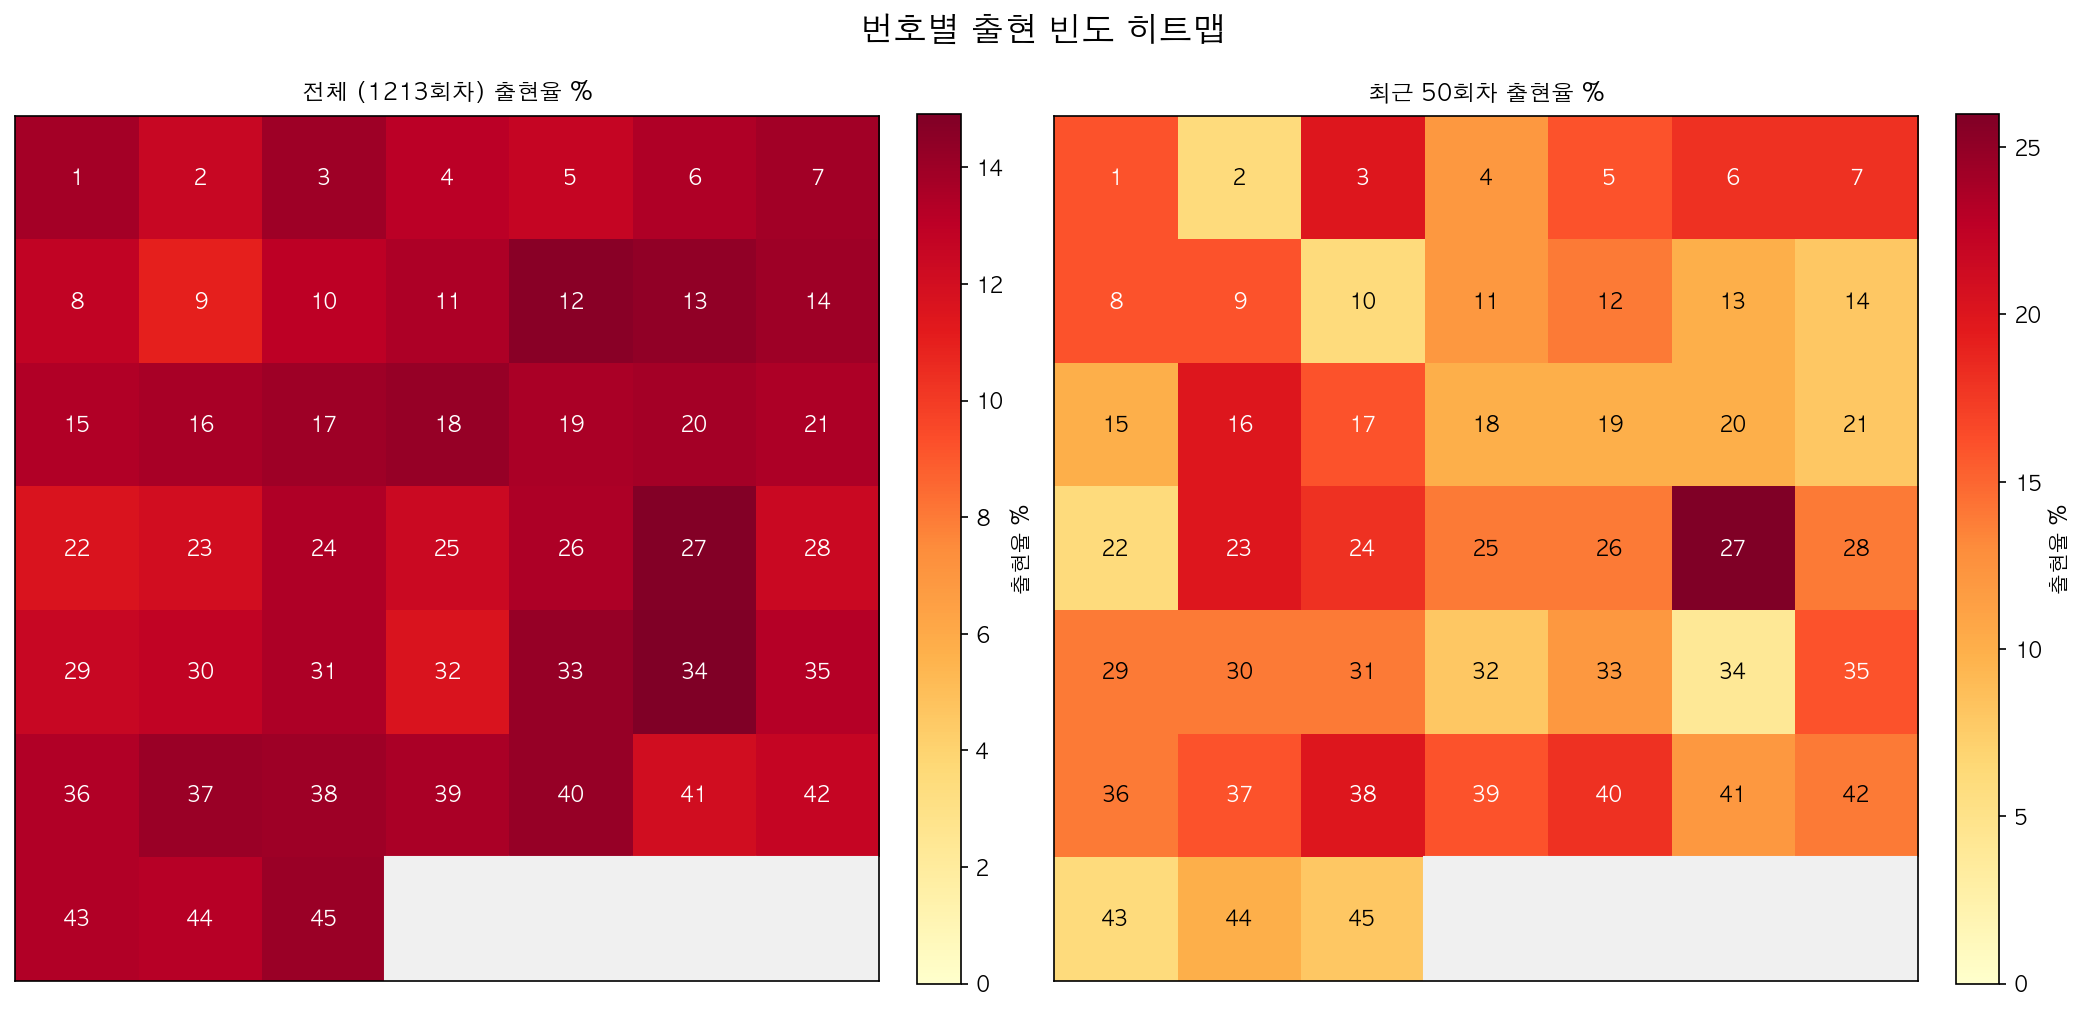
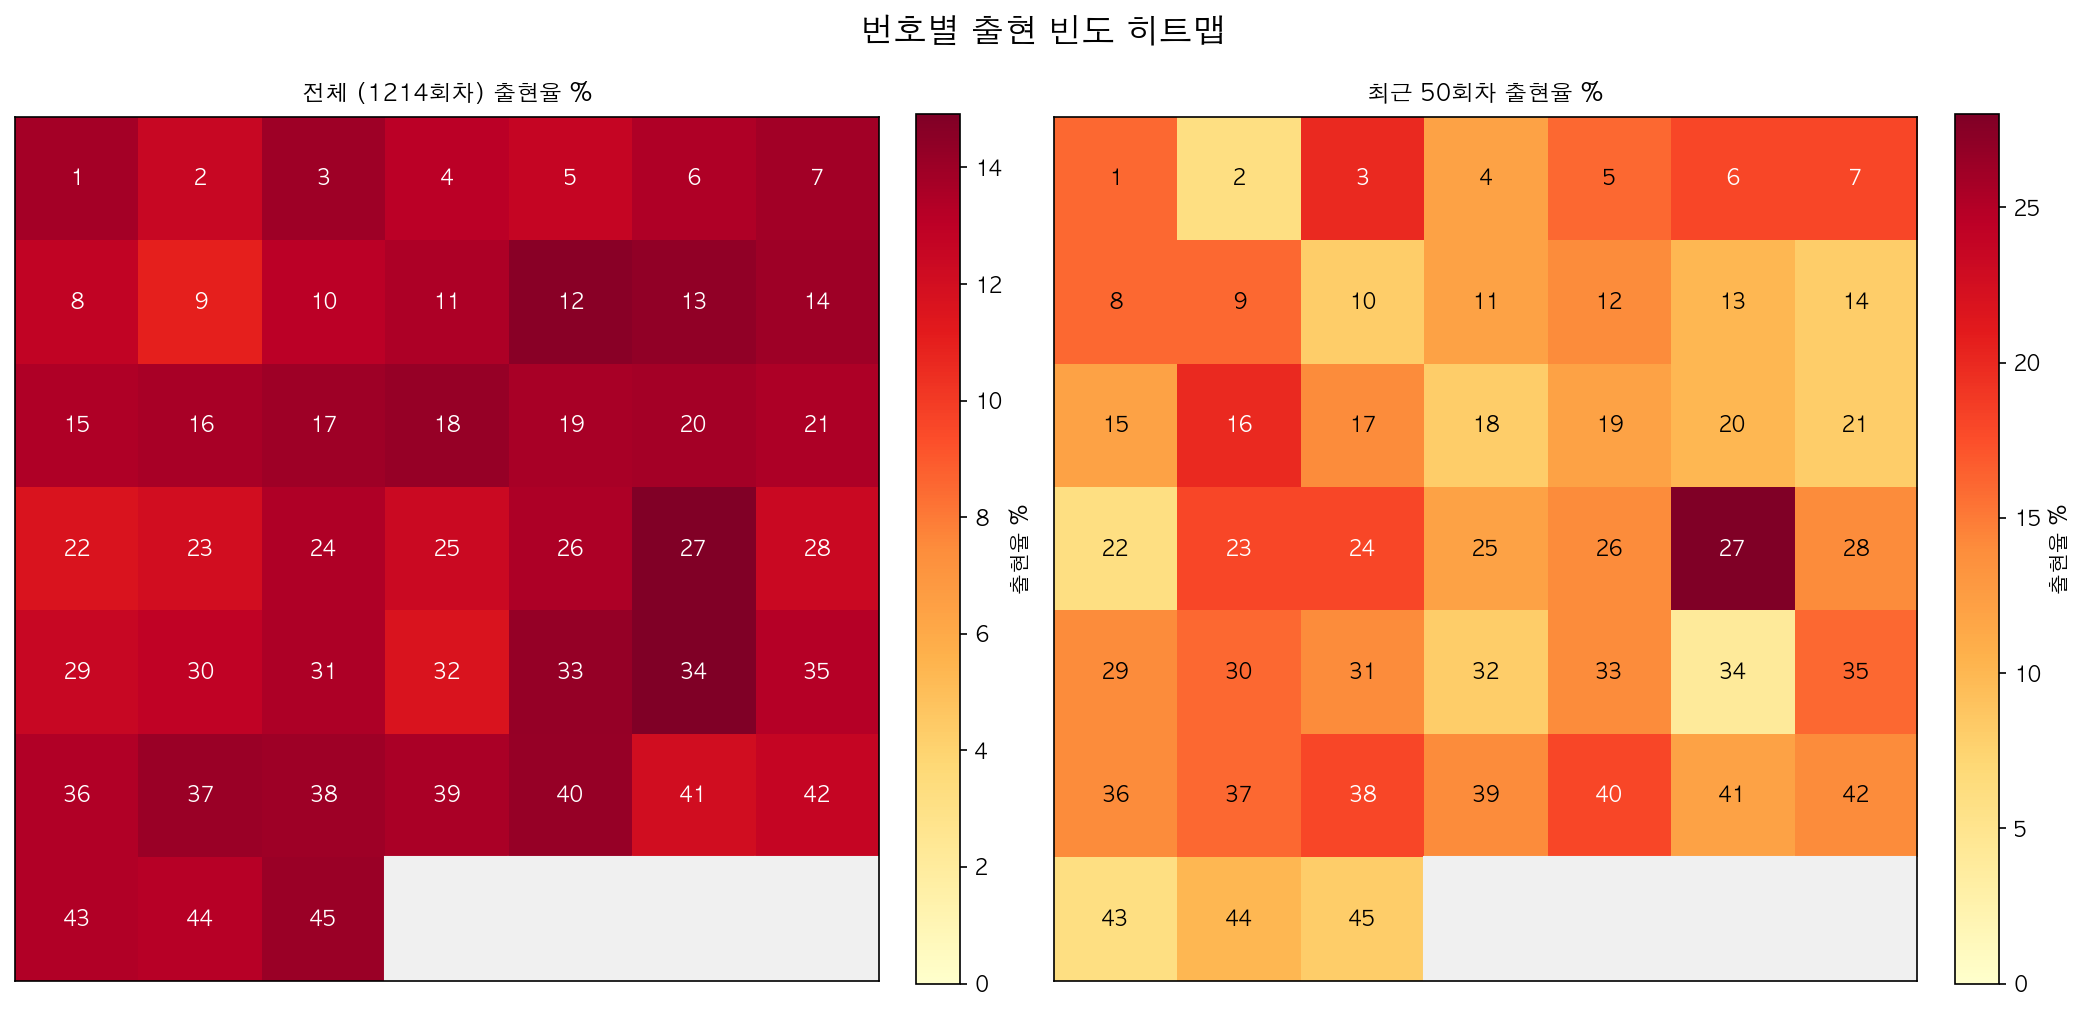
Fix crawl command: rename update_latest() to crawl_latest()
The cmd_crawl function called a non-existent method update_latest() on
LottoCrawler. Fixed to use the actual method name crawl_latest().
Also includes updated visualization PNGs and lotto.bat changes.

diff --git a/main_new.py b/main_new.py
@@ -343,7 +343,7 @@ def cmd_crawl(args):
     try:
         from crawling import LottoCrawler
         crawler = LottoCrawler()
-        crawler.update_latest()
+        crawler.crawl_latest()
     except ImportError:
         print("crawling.py 모듈을 찾을 수 없습니다.")
 
